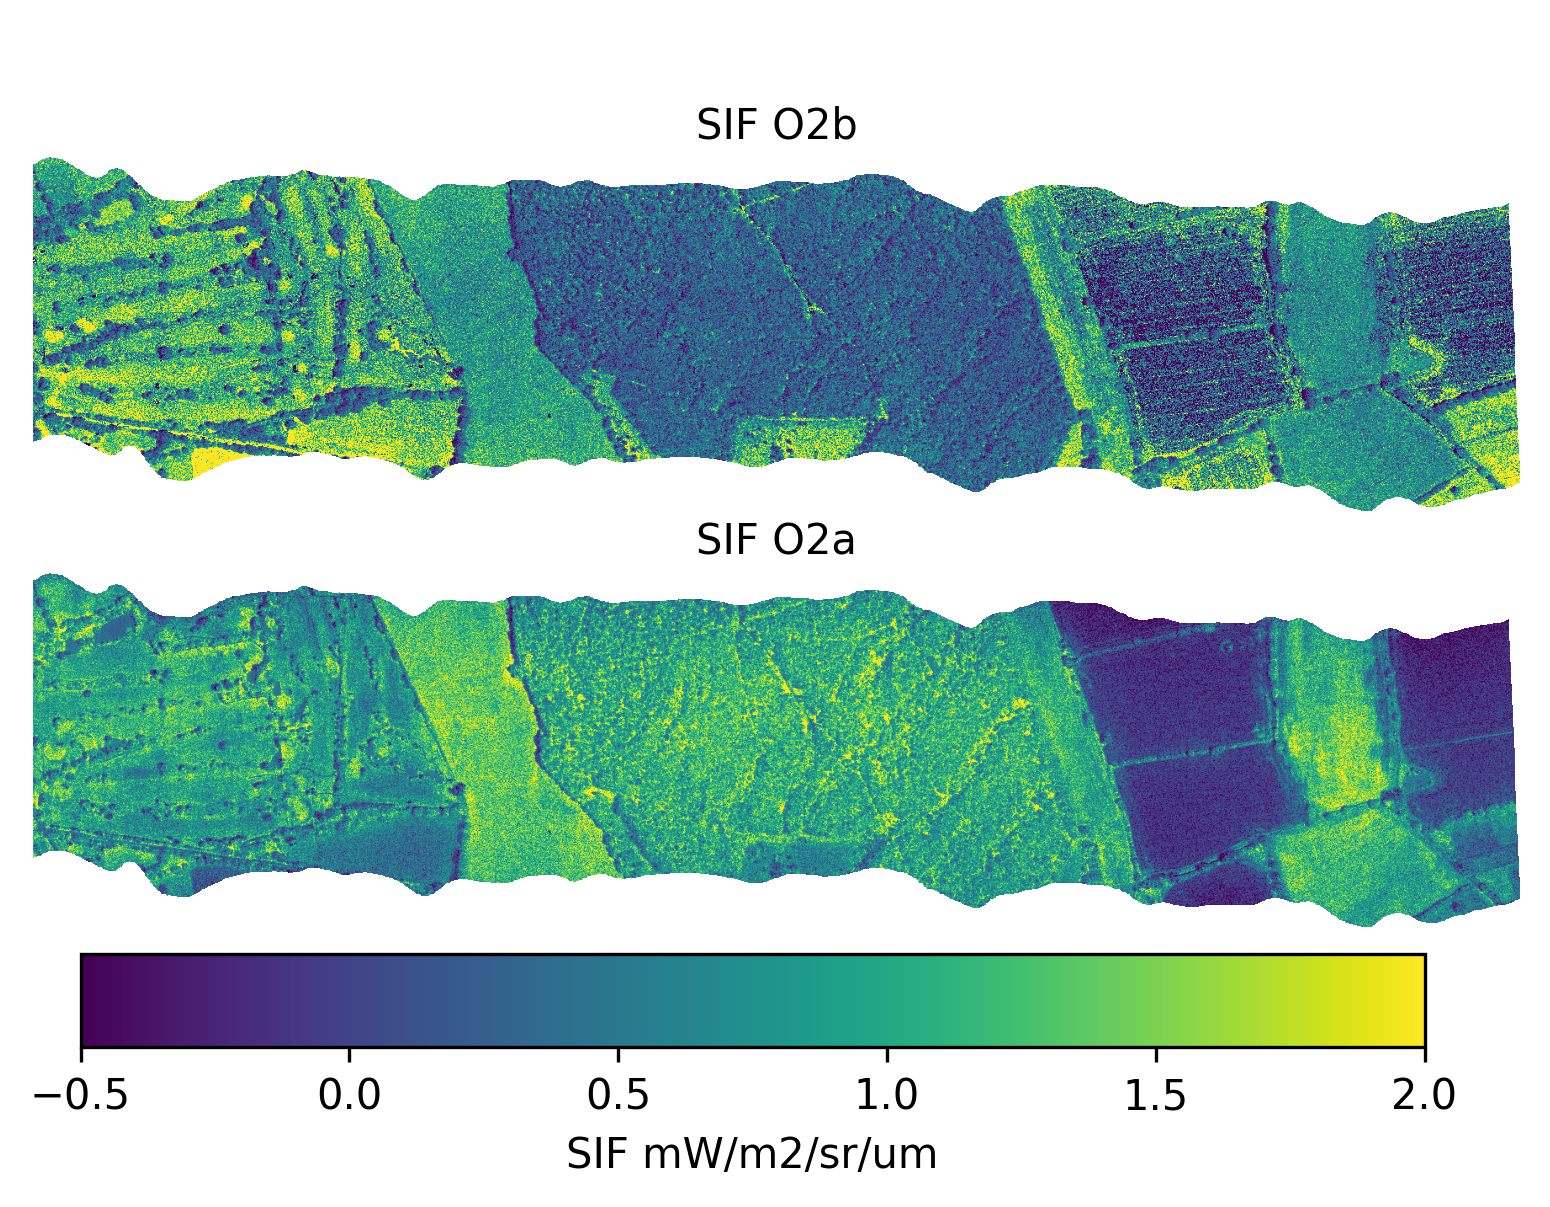
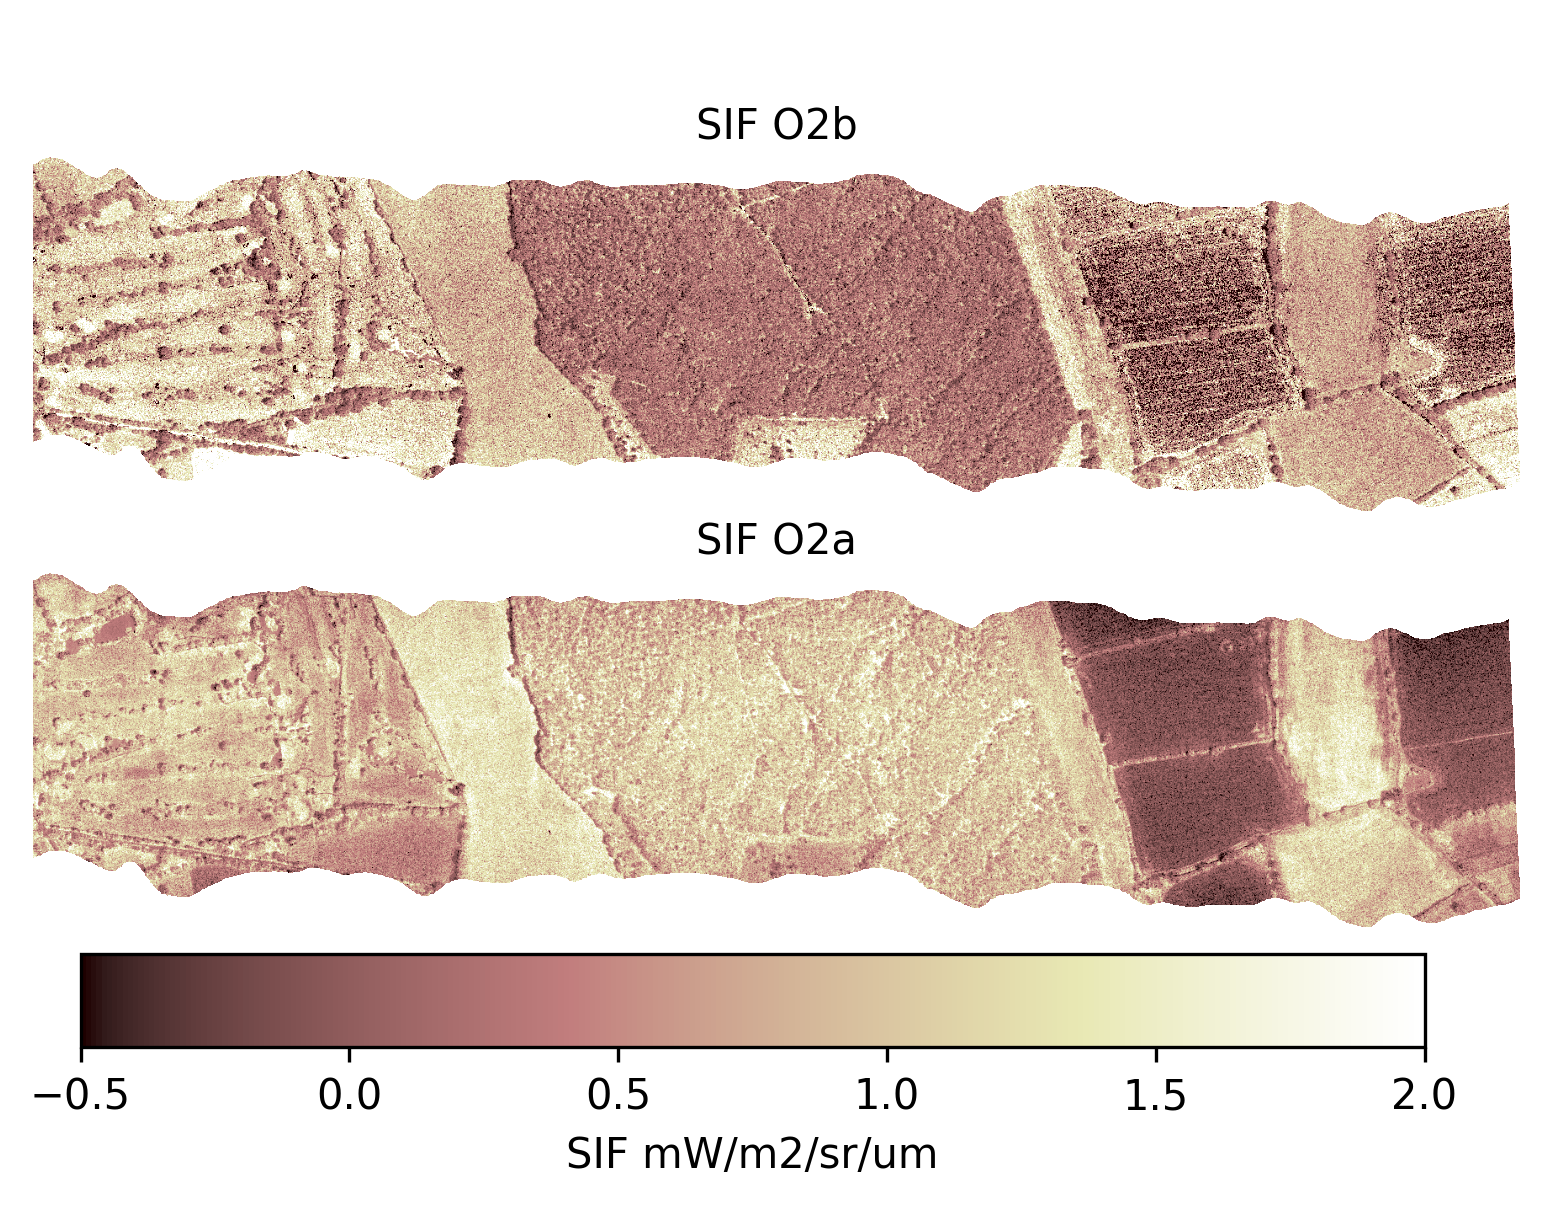
changed colourmap

diff --git a/mk_image.py b/mk_image.py
@@ -12,16 +12,14 @@ with open('sif_o2b.pickle', 'rb') as f:
 sif_o2b_data = np.ma.masked_where(image < -10, image)
 sif_o2b_data = sif_o2b_data[2000:,:]
 
-
-
 vmin=-0.5
 vmax=2.0
-
+cmap="pink"
 
 fig, axes = plt.subplots(nrows=2, ncols=1)
-axes[0].imshow(np.rot90(sif_o2b_data), vmin=vmin, vmax=vmax)
+axes[0].imshow(np.rot90(sif_o2b_data), vmin=vmin, vmax=vmax, cmap=cmap)
 axes[0].axis("off")
-im=axes[1].imshow(np.rot90(sif_o2a_data), vmin=vmin, vmax=vmax)
+im=axes[1].imshow(np.rot90(sif_o2a_data), vmin=vmin, vmax=vmax, cmap=cmap)
 axes[1].axis("off")
 fig.subplots_adjust(wspace=0, hspace=-0.4)
 
@@ -29,22 +27,9 @@ axes[0].text(0.5, 0.8, 'SIF O2b', horizontalalignment='center', verticalalignmen
 axes[1].text(0.5, 0.8, 'SIF O2a', horizontalalignment='center', verticalalignment='center', transform=axes[1].transAxes)
 
 cbar_ax = fig.add_axes([0.15, 0.1, 0.7, 0.065])
-fig.colorbar(im, orientation="horizontal", label="SIF mW/m2/sr/um",pad=0.01, cax=cbar_ax)
+fig.colorbar(im, orientation="horizontal", label="SIF mW/m2/sr/um",pad=0.01, cmap=cmap, cax=cbar_ax)
 
 #plt.show()
 plt.savefig("ibis_sif_sFLD_o2a_o2b.png",bbox_inches='tight', dpi=300)
 
-#plt.subplot(2, 1, 1)
-#plt.imshow(np.rot90(sif_o2b_data), vmin=vmin, vmax=vmax)
-#plt.axis("off")
-#plt.subplot(2, 1, 2)
-#plt.imshow(np.rot90(sif_o2a_data), vmin=vmin, vmax=vmax)
-#plt.axis("off")
-#plt.colorbar(orientation="horizontal",label="SIF mW/m2/sr/um",pad=0.01)
-plt.show()
-
-#plt.imshow(np.rot90(sif_o2a_data),vmin=-,vmax=2.5)
-#plt.axis("off")
-#plt.colorbar(orientation="horizontal",label="SIF mW/m2/sr/um",pad=0.01)
-#plt.show()
 

diff --git a/proc_ibis.py b/proc_ibis.py
@@ -45,7 +45,8 @@ def sif_sFLD( ibis_spect, reference, band="O2a" ):
     Pilar et al. (2019) https://doi.org/10.3390/rs11080962
     
     Find the minumum and maximum values in predefined bands
-    and carry out and FLD calculation with those values
+    and carry out and FLD calculation with those values.
+    Band definitions are from Pilar et al. (ibid).
     """
     
     if band=="O2a":
